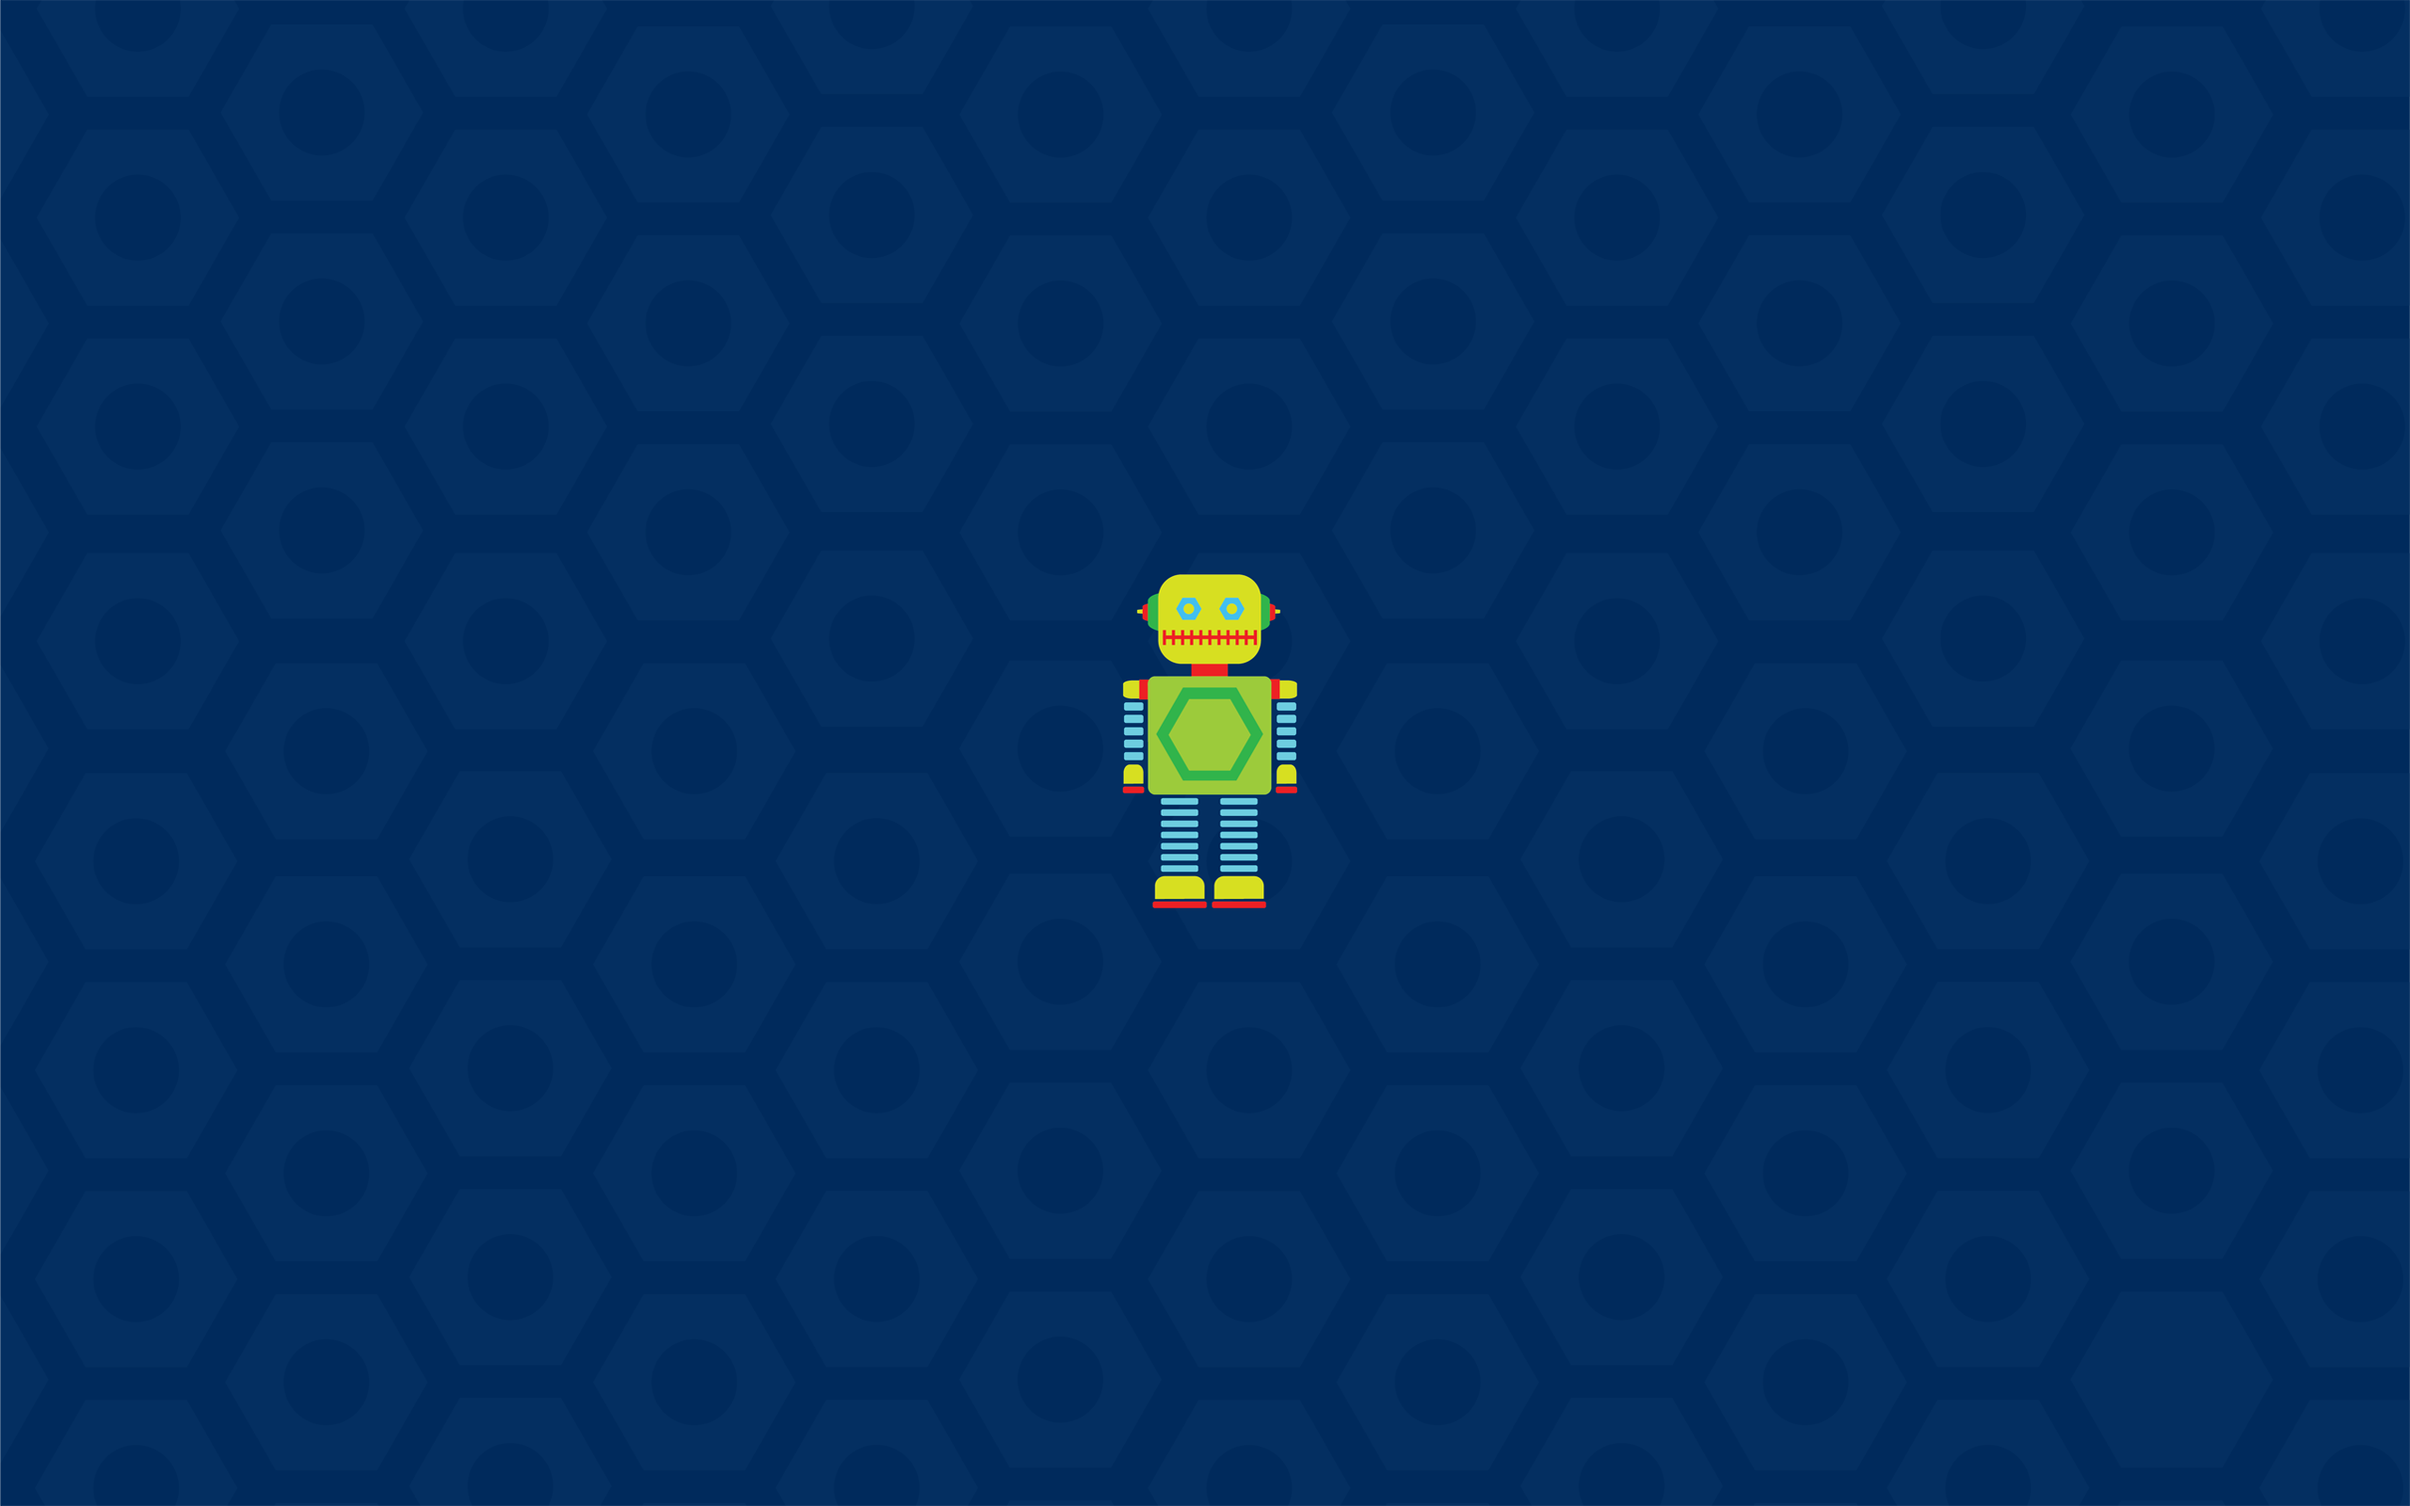
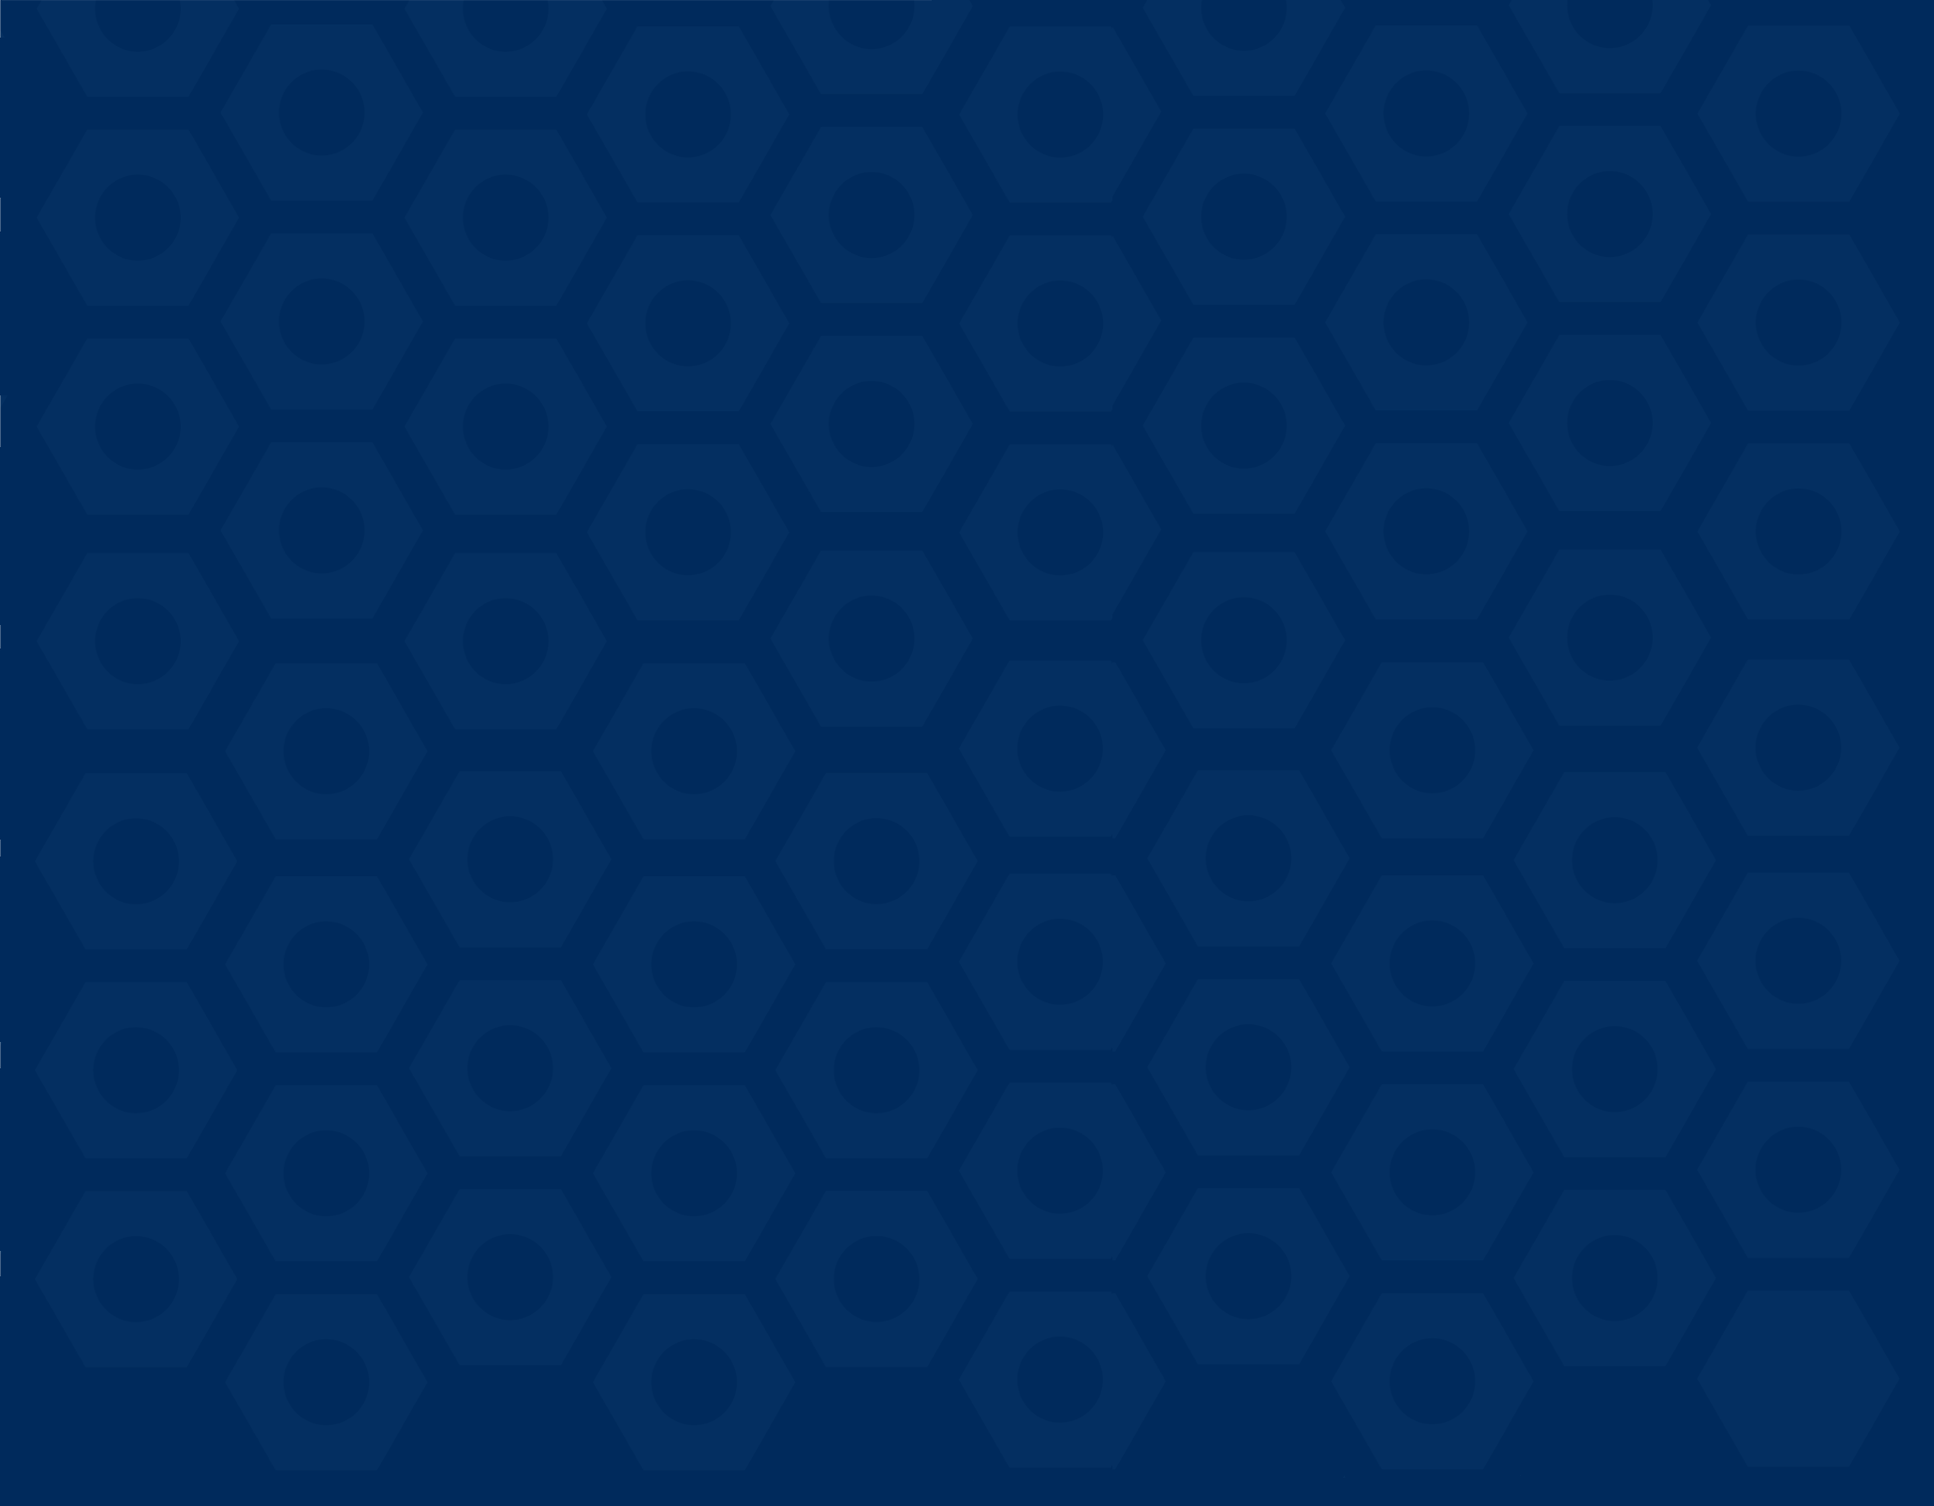
fixed background

Changed region(s): [[0.4672, 0.375, 0.5606, 0.625], [0.9966, 0.3438, 1.0, 0.375]]

diff --git a/css/cover.css b/css/cover.css
@@ -27,8 +27,11 @@ a:hover {
 html,
 body {
   height: 100%;
-  background-image: url('images/Background.png');
-  background-color: #537e72;
+  background-image: url('/images/Background.png');
+  background-color: #002a5c;
+  background-repeat:no-repeat;
+  background-attachment:fixed;
+  background-position:center top;
 }
 body {
   color: #fbfcef;
